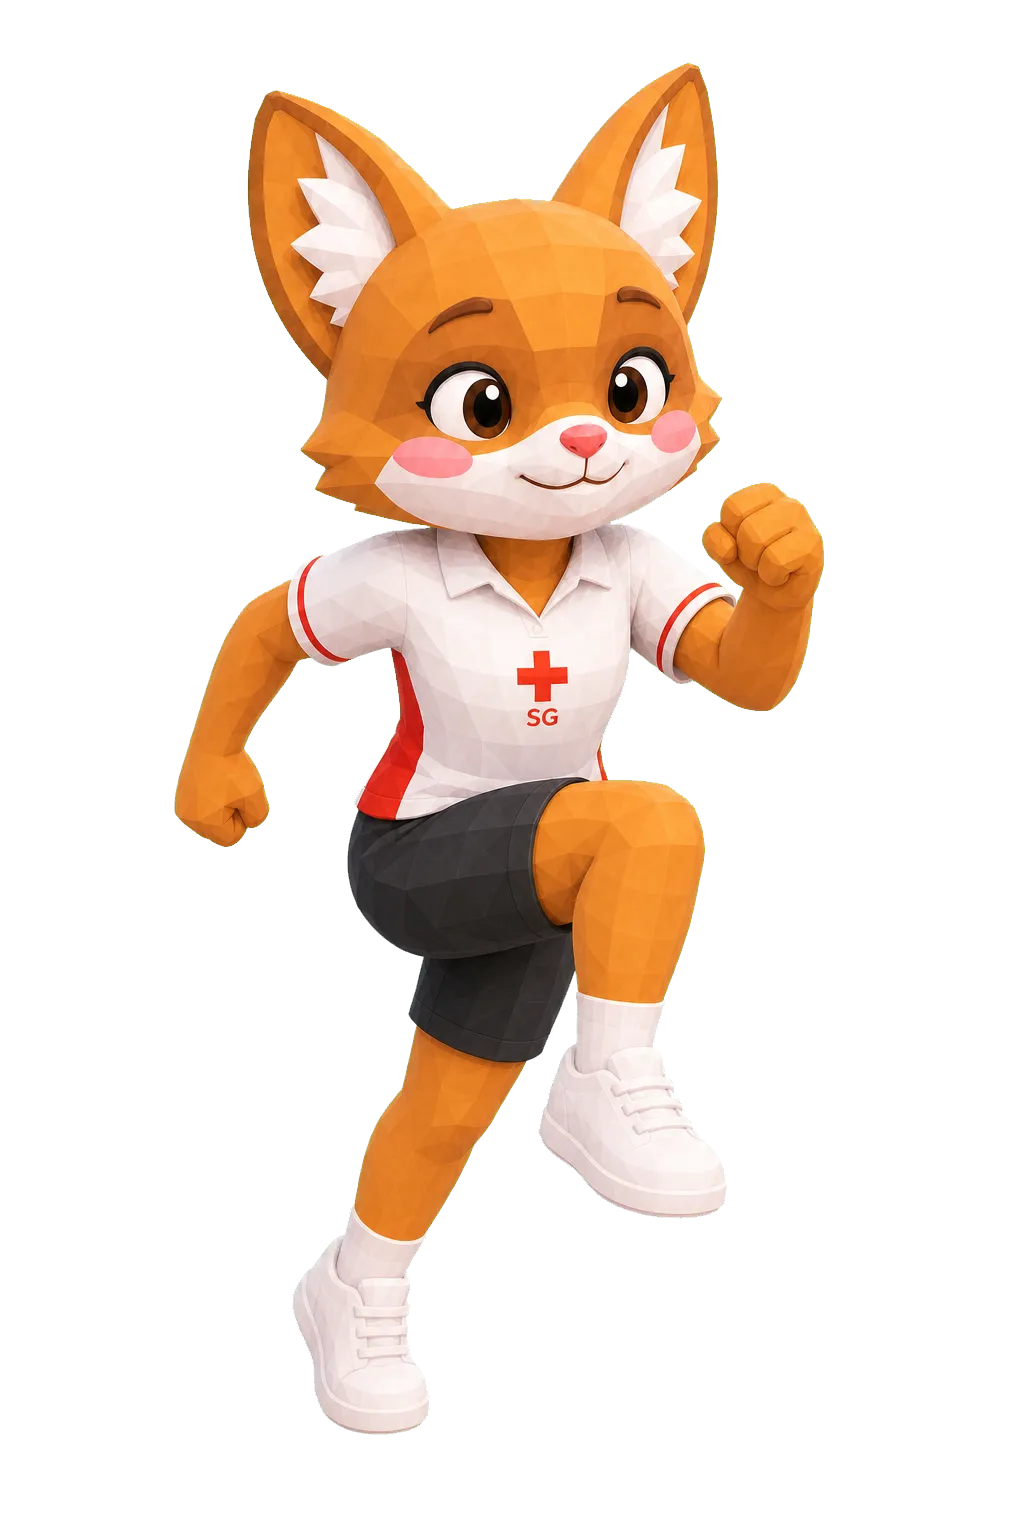
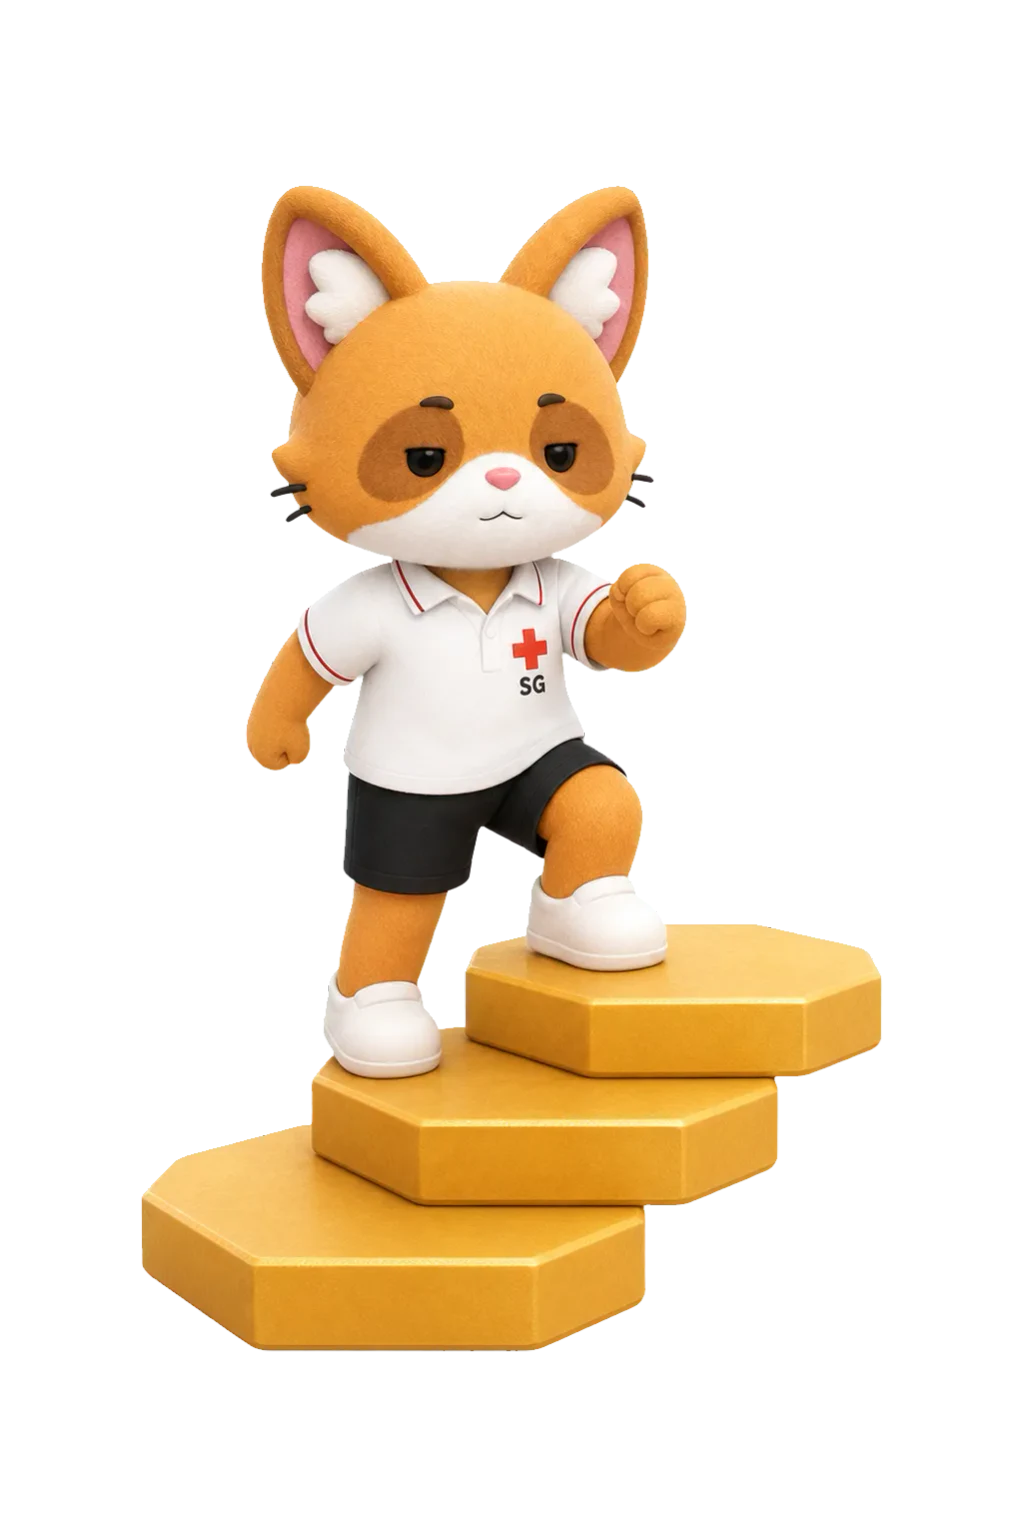
Match AR cards to scenario models

diff --git a/assets/js/app.js b/assets/js/app.js
@@ -33,6 +33,7 @@ function notifyMotion(name, detail = {}) {
 
 const pulseSurveyFile = "assets/data/pulse-surveys.json";
 const arCardsFile = "assets/data/ar-cards.json";
+const arAssetVersion = "20260728-scenario3d";
 const scenarioLibraryFile = "assets/data/scenarios/scenario-library.json";
 let scenarioDefinitions = [];
 let scenarioIds = [];
@@ -1066,7 +1067,7 @@ function arEffectMarkup(animation) {
 function renderArOverlay(card) {
   if (!card || !arOverlay) return;
 
-  arCharacterImage.src = card.characterImage;
+  arCharacterImage.src = `${card.characterImage}?v=${arAssetVersion}`;
   arCharacterImage.alt = `${card.character} demonstrating ${card.title}`;
   arOverlayFramework.textContent = `${card.framework} · ${card.letter}`;
   arOverlayTitle.textContent = card.title;
@@ -1078,6 +1079,7 @@ function renderArOverlay(card) {
   void arOverlay.offsetWidth;
   arOverlay.classList.add("is-active");
   arCameraFrame.dataset.card = card.id;
+  arCameraFrame.classList.add("has-card-overlay");
 }
 
 function renderArLearning(card) {
@@ -1225,7 +1227,7 @@ function renderPrintableArCards() {
 }
 
 async function loadArCards() {
-  const response = await fetch(`${arCardsFile}?v=20260727-ar8`);
+  const response = await fetch(`${arCardsFile}?v=20260728-scenario3d`);
   if (!response.ok) throw new Error("AR card content could not be loaded.");
 
   const data = await response.json();

diff --git a/assets/css/app.css b/assets/css/app.css
@@ -2178,10 +2178,16 @@ body.app-page .progress-track span {
   position: relative;
   z-index: 1;
   max-width: 32ch;
+  transition: opacity var(--motion-fast) var(--motion-ease), visibility var(--motion-fast) var(--motion-ease);
 }
 
 .ar-camera-frame .camera-empty[hidden] {
   display: none;
+}
+
+.ar-camera-frame.has-card-overlay .camera-empty {
+  visibility: hidden;
+  opacity: 0;
 }
 
 .ar-camera-frame .camera-empty strong {
@@ -2335,17 +2341,21 @@ body.app-page .progress-track span {
 
 .ar-effect {
   position: absolute;
-  top: 16%;
-  left: 16%;
+  top: 8%;
+  left: 6%;
   z-index: 2;
   width: 170px;
   height: 170px;
   color: #fff;
+  opacity: .46;
+  transform: scale(.58);
+  transform-origin: top left;
 }
 
 .ar-camera-frame[data-card^="care"] .ar-effect {
-  right: 16%;
+  right: 6%;
   left: auto;
+  transform-origin: top right;
 }
 
 .effect-person {

diff --git a/index.html b/index.html
@@ -28,7 +28,7 @@
   <title>Feedback Playbook | Singapore Red Cross</title>
   <link rel="preconnect" href="https://www.gstatic.com" />
   <link rel="preload" as="image" href="assets/office-vn.webp" />
-  <link rel="stylesheet" href="assets/css/app.css?v=20260727-ar8" />
+  <link rel="stylesheet" href="assets/css/app.css?v=20260728-scenario3d" />
   <script type="importmap">
     {
       "imports": {
@@ -38,7 +38,7 @@
       }
     }
   </script>
-  <script type="module" src="assets/js/app.js?v=20260727-ar8"></script>
+  <script type="module" src="assets/js/app.js?v=20260728-scenario3d"></script>
   <script type="application/ld+json">
     {
       "@context": "https://schema.org",

diff --git a/HANDOFF.md b/HANDOFF.md
@@ -1,6 +1,6 @@
 # EchoWorks Project Handoff
 
-Updated: 2026-07-27 (Asia/Singapore)
+Updated: 2026-07-28 (Asia/Singapore)
 
 Chinese handoff: [HANDOFF.zh-CN.md](HANDOFF.zh-CN.md)
 
@@ -183,14 +183,14 @@ The pulse survey and game competency dimensions are reported separately; do not 
 - Scenario characters use 12 lightweight pre-rendered low-poly frames: three synchronized idle/talk pose pairs per character. Paths are centralized in `assets/characters/character-models.js`; speaker, mood, tone, and turn-based pose selection live in `assets/js/novel.js`. This is not a real-time Three.js character runtime.
 - Each scenario has a location background from `assets/scenes` (meeting room, review office, corridor, or planning workspace). Coach feedback may switch to the existing success/tense/mentor backdrop while preserving the screen-swipe transition.
 - Current AR is web-based card recognition/manual learning, not a Unity package or world-anchored AR. One local MindAR bundle at `assets/ar-targets/echoworks-cards.mind` recognizes all eight physical CARE/REAL artworks.
-- Physical card sources are in `assets/ar-cards`; matching transparent low-poly poses are in `assets/ar-models`. Filenames share the exact card IDs. Target indexes are fixed as REAL_R, REAL_E, REAL_A, REAL_L, CARE_C, CARE_A, CARE_R, CARE_E (0 through 7).
+- Physical card sources are in `assets/ar-cards`; matching transparent AR poses are in `assets/ar-models`. The eight overlays use the same soft low-poly 3D character design as the scenario models: cream Alex for REAL and brown-mask Sarah/Jamie for CARE. Filenames share the exact card IDs. Target indexes are fixed as REAL_R, REAL_E, REAL_A, REAL_L, CARE_C, CARE_A, CARE_R, CARE_E (0 through 7).
 - Camera code remains lazy and requires HTTPS or localhost.
 - Always retain manual card selection when camera/MindAR/BarcodeDetector is unavailable.
 
 ## Verification Completed
 
 - `npm run check`: passed.
-- `npm test`: 12/12 passed.
+- `npm test`: 13/13 passed.
 - `npm run test:rules`: 5/5 Firestore emulator suites passed.
 - `npm run test:browser`: passed in Chrome 150.0.7871.184 and Edge 150.0.4078.83.
 - Browser coverage includes auth errors/reset/signup verification/logout, guest mode, optional survey/AR retry, four pulse answers, progress deletion dialog, both roles, reflection/replay, dialogue panel click/tap, text-selection protection, input cooldown, dashboard denial/owner access/filters/detail/viewer management, keyboard flow, and reduced motion.
